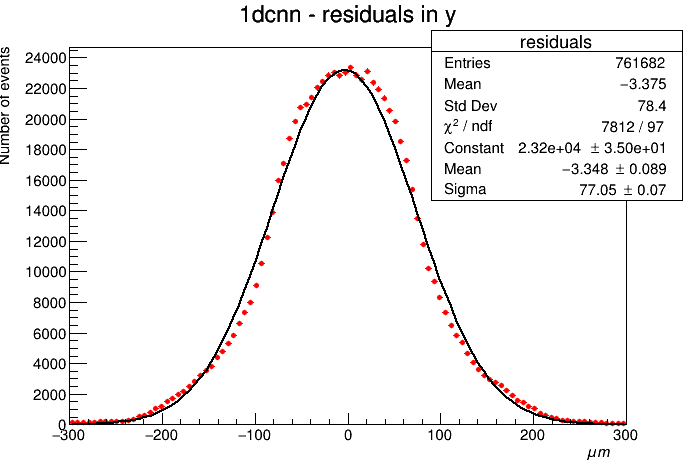
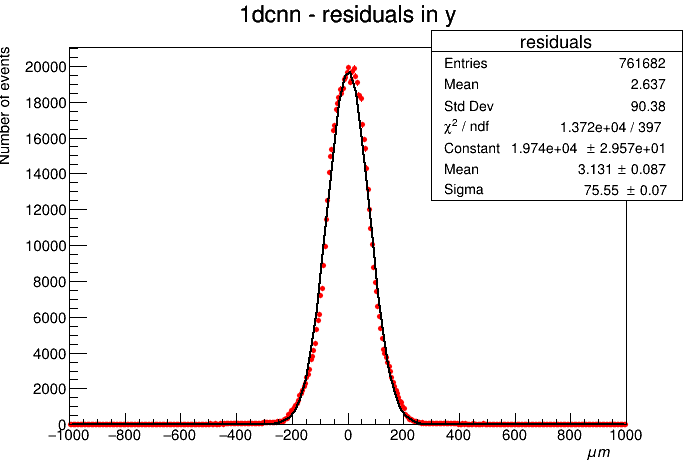
comparing residuals

diff --git a/code/find_hit_position_y_1dcnn.py b/code/find_hit_position_y_1dcnn.py
@@ -185,7 +185,7 @@ model = Model(inputs=[inputs,angles],
 # Display a model summary
 model.summary()
 
-#history = model.load_weights("checkpoints/cp_y%s.ckpt"%(img_ext))
+history = model.load_weights("checkpoints/cp_y%s.ckpt"%(img_ext))
 
 # Compile the model
 model.compile(loss=loss_function,
@@ -193,7 +193,7 @@ model.compile(loss=loss_function,
               metrics=['mse']
               )
 
-
+'''
 callbacks = [
 EarlyStopping(patience=7),
 ModelCheckpoint(filepath="checkpoints/cp_y%s.ckpt"%(img_ext),
@@ -213,7 +213,7 @@ cmsml.tensorflow.save_graph("data/graph_y_%s.pb"%(img_ext), model, variables_to_
 cmsml.tensorflow.save_graph("data/graph_y_%s.pb.txt"%(img_ext), model, variables_to_constants=True)
 
 plot_dnn_loss(history.history,'y',img_ext)
-
+'''
 print("y training time for dnn",time.clock()-train_time_y)
 
 start = time.clock()

diff --git a/code/find_hit_position_x_1dcnn.py b/code/find_hit_position_x_1dcnn.py
@@ -189,14 +189,14 @@ model = Model(inputs=[inputs,angles],
 # Display a model summary
 model.summary()
 
-#history = model.load_weights("checkpoints/cp_x%s.ckpt"%(img_ext))
+history = model.load_weights("checkpoints/cp_x%s.ckpt"%(img_ext))
 
 # Compile the model
 model.compile(loss=loss_function,
               optimizer=optimizer,
               metrics=['mse']
               )
-
+'''
 callbacks = [
 EarlyStopping(patience=6),
 ModelCheckpoint(filepath="checkpoints/cp_x%s.ckpt"%(img_ext),
@@ -216,7 +216,7 @@ cmsml.tensorflow.save_graph("data/graph_x_%s.pb"%(img_ext), model, variables_to_
 cmsml.tensorflow.save_graph("data/graph_x_%s.pb.txt"%(img_ext), model, variables_to_constants=True)
 
 plot_dnn_loss(history.history,'x',img_ext)
-
+'''
 print("x training time for dnn",time.clock()-train_time_x)
 
 start = time.clock()

diff --git a/code/plotter.py b/code/plotter.py
@@ -40,7 +40,7 @@ def plot_dnn_loss(history,label,img_ext):
 
 def plot_residuals(residuals,algo,label,img_ext):
 
-	res = ROOT.TH1F("residuals","%s %s"%(algo,label),100,-300,300)
+	res = ROOT.TH1F("residuals","%s %s"%(algo,label),400,-1000,1000)
 	res.Sumw2() # statistical uncertainties to be calculated using the sum of weights squared
 	'''
 	Once the histogram has been filled, we want to make sure that it doesnt disappear. By default, histograms
